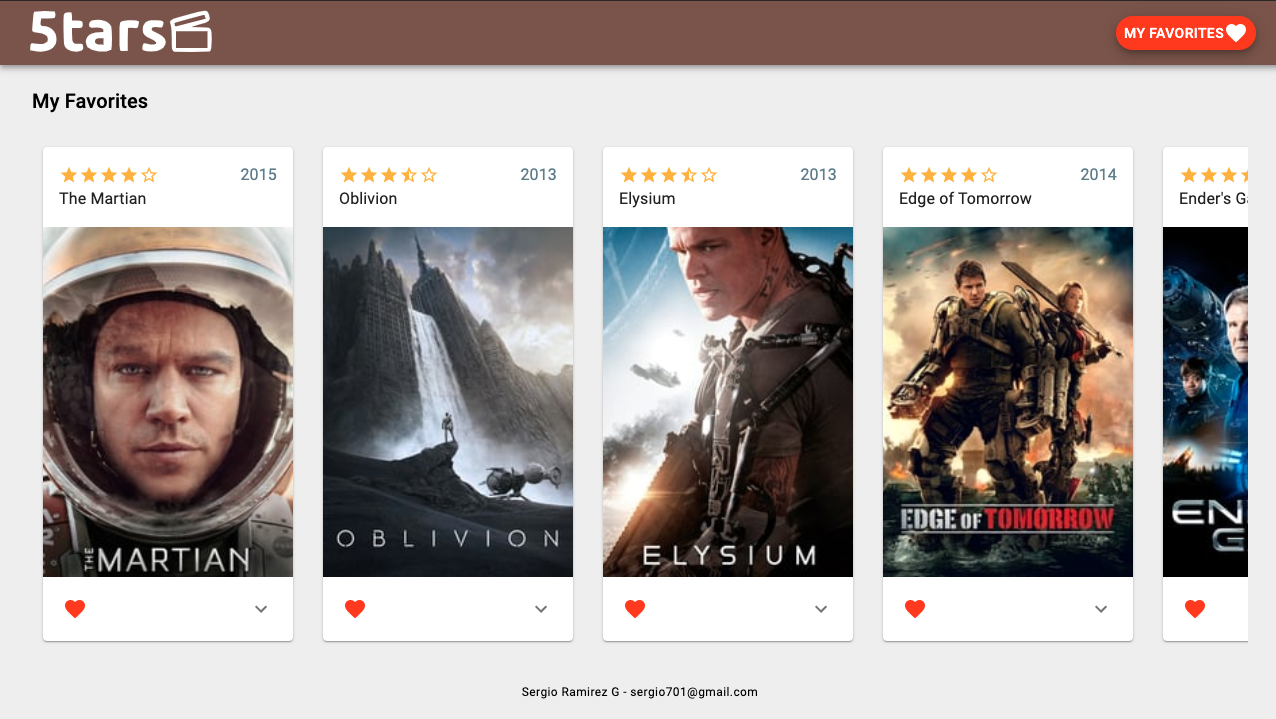
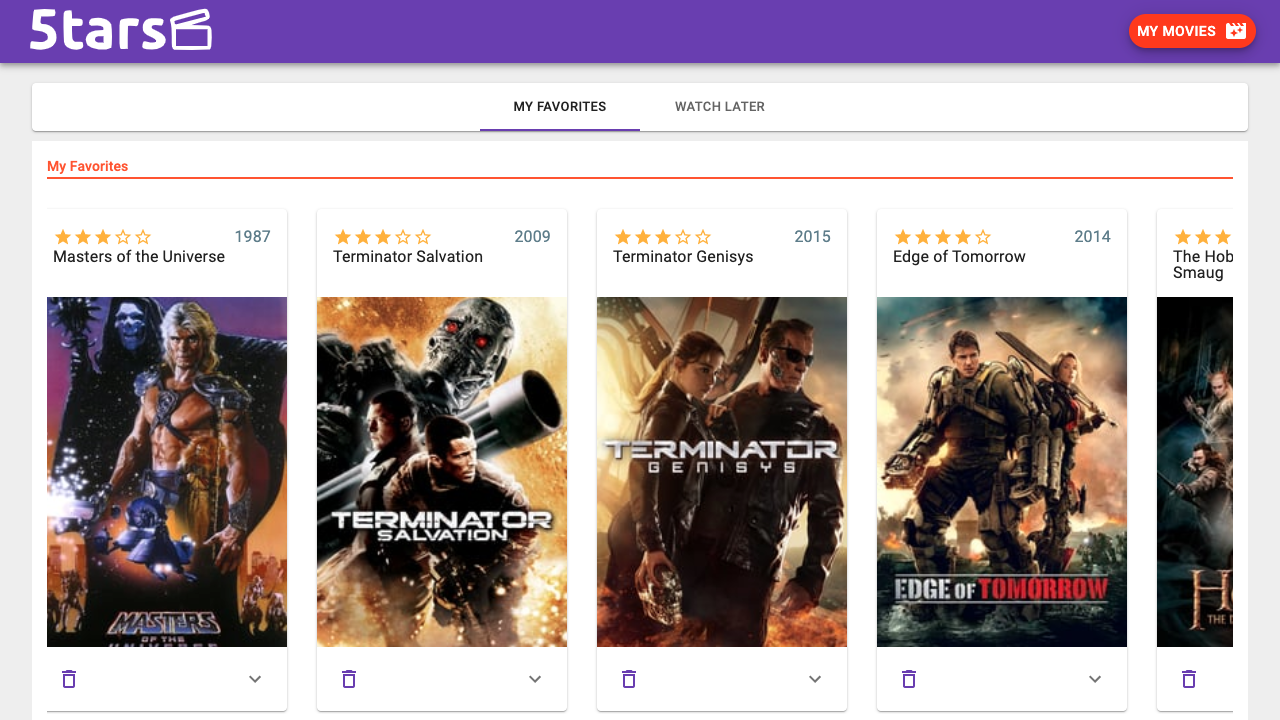
handle watchLater and favorites list, refactor movies card actions button

diff --git a/src/views/MyLists/MyLists.js b/src/views/MyLists/MyLists.js
@@ -4,6 +4,10 @@ import Container from '@material-ui/core/Container';
 import Header from "components/Header/Header";
 import Footer from "components/Footer/Footer";
 import MoviesList from "components/MoviesList/MoviesList";
+import Paper from '@material-ui/core/Paper';
+import Tabs from '@material-ui/core/Tabs';
+import Tab from '@material-ui/core/Tab';
+import Box from '@material-ui/core/Box';
 import {  
   getFavorites,
   removeFromFavorites,
@@ -20,6 +24,11 @@ const useStyles = makeStyles(styles);
 const MyLists = props => {
   const classes = useStyles();
   const [state, dispatch] = useReducer(reducer, initialState);
+  const [activeTab, setActiveTab] = useState(0);
+
+  const handleTabsChange = (event, newValue) => {
+    setActiveTab(newValue);
+  };
 
   const getFavoritesMovies= async () => {
     dispatch(actions.fetching());
@@ -67,19 +76,35 @@ const MyLists = props => {
     <div>
       <Header />
       <Container className={classes.mainContainer}>
-        <MoviesList
-          title="My Favorites"
-          movies={state.favorites}
-          removeFromList={removeFavorite}
-          color={deepOrange[500]}
-          deleteMode={true}
-        /> 
-        <MoviesList
-          title="Watch Later"
-          movies={state.watchLater}
-          removeFromList={removeWatchLater}
-          color={green[500]}
-        />
+        <Paper className={classes.root}>
+          <Tabs value={activeTab} onChange={handleTabsChange} indicatorColor='primary' centered>
+            <Tab label="My Favorites" />
+            <Tab label="Watch Later"/>
+          </Tabs>
+        </Paper>
+        <Box className={classes.tabsContent} color="primary.main">
+          {(() => {
+            switch(activeTab) {
+              case 0:
+                return <MoviesList
+                  title="My Favorites"
+                  movies={state.favorites}
+                  removeFromList={removeFavorite}
+                  color={deepOrange[500]}
+                  deleteMode={true}
+                />;
+              case 1:
+                return <MoviesList
+                  title="Watch Later"
+                  movies={state.watchLater}
+                  removeFromList={removeWatchLater}
+                  color={green[500]}
+                />
+              default:
+                return null;
+            }
+          })()}
+        </Box>
       </Container>
       <Footer />
     </div>

diff --git a/src/components/MovieCard/test/MovieCard.test.js b/src/components/MovieCard/test/MovieCard.test.js
@@ -5,7 +5,7 @@ import MovieCard from '../MovieCard';
 import FavoriteIcon from '@material-ui/icons/Favorite';
 
 describe('MovieCard Component', () => {
-  let mock, wrapper;
+  let mock
 
   beforeEach(() => {
     mock = {
@@ -24,42 +24,8 @@ describe('MovieCard Component', () => {
     }
   });
 
-  afterEach(() => {
-    wrapper = null;
-    sinon.restore();
-  });
-
   it('should render without crashing', () => {
     shallow(<MovieCard {...mock}/>);
   });
 
-  it('should call addFavorite when the movie is not favorite on fav button click', () => {
-    wrapper = mount(<MovieCard {...mock}/>);
-    wrapper.find('.MuiCardActions-root button').first().simulate('click');
-    sinon.assert.called(mock.addFavorite);
-    sinon.assert.notCalled(mock.removeFavorite);
-  });
-
-  it('should call removeFavorite when the movie isfavorite on fav button click', () => {
-    mock.isFavorite = true;
-    wrapper = mount(<MovieCard {...mock}/>);
-    wrapper.find('.MuiCardActions-root button').first().simulate('click');
-    sinon.assert.notCalled(mock.addFavorite);
-    sinon.assert.called(mock.removeFavorite);
-  });
-
-  it('should highlight icon if is favorite', () => {
-    let expected = 'secondary';
-    mock.isFavorite = true;
-    wrapper = mount(<MovieCard {...mock}/>);
-    let color = wrapper.find(FavoriteIcon).props().color;
-    expect(color).toBe(expected);
-  });
-
-  it('should not highlight icon if is not favorite', () => {
-    let expected = 'inherit';
-    wrapper = mount(<MovieCard {...mock}/>);
-    let color = wrapper.find(FavoriteIcon).props().color;
-    expect(color).toBe(expected);
-  });
 });

diff --git a/src/views/MyLists/test/actions.test.js b/src/views/MyLists/test/actions.test.js
@@ -1,6 +1,6 @@
 import { actions, types } from '../actions';
 
-describe('MyLists actions', () => {
+describe.only('MyLists actions', () => {
   it('should returns fetching action', () => {
     const expected = {
       type: types.FETCHING
@@ -15,12 +15,39 @@ describe('MyLists actions', () => {
     expect(actions.error()).toEqual(expected);
   });
   
-  it('should returns success action', () => {
-    const movies = "movies";
+  it('should returns favorites action', () => {
+    const favorites = "movies";
     const expected = {
-      type: types.SUCCESS,
-      movies
+      type: types.FAVORITES,
+      favorites
     };
-    expect(actions.success(movies)).toEqual(expected);
+    expect(actions.favorites(favorites)).toEqual(expected);
+  });
+  
+  it('should returns watchLater action', () => {
+    const watchLater = "movies";
+    const expected = {
+      type: types.WATCH_LATER,
+      watchLater
+    };
+    expect(actions.watchLater(watchLater)).toEqual(expected);
+  });
+
+  it('should returns removeFavorite action', () => {
+    const id = "1234";
+    const expected = {
+      type: types.REMOVE_FAVORITE,
+      id
+    };
+    expect(actions.removeFavorite(id)).toEqual(expected);
+  });
+  
+  it('should returns removeWatchLater action', () => {
+    const id = "1234";
+    const expected = {
+      type: types.REMOVE_WATCH_LATER,
+      id
+    };
+    expect(actions.removeWatchLater(id)).toEqual(expected);
   }); 
 });

diff --git a/src/views/MyLists/test/reducer.test.js b/src/views/MyLists/test/reducer.test.js
@@ -18,16 +18,20 @@ describe('MyLists reducer', () => {
     expect(state).toEqual({ ...initialState, status: types.FETCHING });
   });
 
-  it('should update movies on SUCCES action', () => {
-    const movies = [1,2,3];
-    state = reducer(null, actions.success(movies));
-    expect(state).toEqual({ ...initialState, movies, status: types.SUCCESS });
+  it('should update favorites on FAVORITES action', () => {
+    const favorites = [1,2,3];
+    state = reducer(undefined, actions.favorites(favorites));
+    expect(state).toEqual({ ...initialState, favorites });
   });
 
-  it('should empty movies on ERROR action', () => {
-    const movies = [1,2,3];
-    state = reducer(null, actions.success(movies));
-    state = reducer(state, actions.error());
-    expect(state).toEqual({ ...initialState, movies: [], status: types.ERROR });
+  it('should update watchLater on WATCH_LATER action', () => {
+    const watchLater = [1,2,3];
+    state = reducer(undefined, actions.watchLater(watchLater));
+    expect(state).toEqual({ ...initialState, watchLater,});
+  });
+
+  it('should update status on ERROR action', () => {
+    state = reducer(undefined, actions.error());
+    expect(state).toEqual({ ...initialState, status: types.ERROR });
   });
 });

diff --git a/src/views/MyLists/reducer.js b/src/views/MyLists/reducer.js
@@ -13,14 +13,14 @@ export const reducer = (state = initialState, { type, favorites, watchLater, id 
     case types.FETCHING:
       return { ...initialState, status: types.FETCHING };
     case types.FAVORITES:
-      return { ...state, status: types.SUCCESS, favorites };
+      return { ...state, favorites };
     case types.REMOVE_FAVORITE:
-        change = state.favorites.filter(movie => movie.id != id);
+        change = state.favorites.filter(movie => movie.id !== id);
       return { ...state, favorites: change };
     case types.WATCH_LATER:
-      return { ...state, status: types.SUCCESS, watchLater };
+      return { ...state, watchLater };
     case types.REMOVE_WATCH_LATER:
-      change = state.watchLater.filter(movie => movie.id != id);
+      change = state.watchLater.filter(movie => movie.id !== id);
       return { ...state, watchLater: change };  
     case types.ERROR:
       return { ...state, status: types.ERROR };

diff --git a/src/components/MovieCard/MovieCard.js b/src/components/MovieCard/MovieCard.js
@@ -1,5 +1,5 @@
 import React from 'react';
-import { string, number, bool, func, shape, node } from 'prop-types';
+import { string, number, shape, node } from 'prop-types';
 import { makeStyles } from '@material-ui/core/styles';
 import clsx from 'clsx';
 import Score from "components/Score/Score";
@@ -12,9 +12,7 @@ import Collapse from '@material-ui/core/Collapse';
 import IconButton from '@material-ui/core/IconButton';
 import Typography from '@material-ui/core/Typography';
 import ExpandMoreIcon from '@material-ui/icons/ExpandMore';
-import Tooltip from '@material-ui/core/Tooltip';
 import { getMovieImagesUrls } from  "modules/movie-utils";
-import DeleteOutlineIcon from '@material-ui/icons/DeleteOutline';
 
 import styles from "./MovieCardStyle.js";
 

diff --git a/src/components/CardButton/CardButton.js b/src/components/CardButton/CardButton.js
@@ -1,10 +1,6 @@
 import React from 'react';
 import Tooltip from '@material-ui/core/Tooltip';
 import IconButton from '@material-ui/core/IconButton';
-import styles from "./CardButtonStyle.js";
-import { makeStyles } from '@material-ui/core/styles';
-
-const useStyles = makeStyles(styles);
 
 const CardButton = ({
   help,
@@ -14,11 +10,9 @@ const CardButton = ({
   onTurnOn,
   onTurnOff
 }) => {
-  const classes = useStyles();
-
-  const colorIcon = React.cloneElement(icon, {
+  const colorIcon = icon ? React.cloneElement(icon, {
     htmlColor: active ? color : null
-  });
+  }) : null;
   
   return (
     <Tooltip title={help}>

diff --git a/src/components/Header/HeaderStyle.js b/src/components/Header/HeaderStyle.js
@@ -6,21 +6,21 @@ const HeaderStyle = theme => ({
         width: '100%',
         zIndex: 100
       },
-      menuButton: {
-        marginRight: theme.spacing(2),
+      moviesIcon: {
+        marginLeft: theme.spacing(1),
       },
       title: {
         flexGrow: 1,
       },
       logo: {
         width: 'auto',
-        height: '55px'
+        height: '35px',
+        [theme.breakpoints.up('sm')]: {
+          height: '55px',
+        },
       },
       link: {
         textDecoration: 'none'
-      },
-      listButton: {
-        //background: 'linear-gradient(90deg, #4caf50, #ff5722)',
       }
   });
   

diff --git a/src/components/MoviesList/MoviesListStyle.js b/src/components/MoviesList/MoviesListStyle.js
@@ -4,14 +4,15 @@ const MoviesListStyle = theme => ({
       padding: '0',
       paddingBottom: 10,
       borderStyle: 'solid',
-      borderWidth: '3px 0',
-      marginBottom: '50px'
+      borderWidth: '2px 0',
+      marginBottom: '15px'
     },
     gridList: {
       flexWrap: 'nowrap'
     },
     movieCard: {
-      margin: '0 15px'
+      margin: '0 15px',
+      minWidth: '250px'
     },
     title: {
       marginBottom: 0,

diff --git a/src/components/Header/Header.js b/src/components/Header/Header.js
@@ -23,8 +23,8 @@ const Header = () => {
           </div>
           <a href="/MyLists" className={classes.link}>
             <Fab  className={classes.listButton} variant="extended" size="small" color="secondary">              
-              My Movies{''}
-              <MovieFilterIcon />
+              My Movies
+              <MovieFilterIcon className={classes.moviesIcon}/>
             </Fab>
           </a>
         </Toolbar>

diff --git a/src/components/MoviesList/MoviesList.js b/src/components/MoviesList/MoviesList.js
@@ -20,7 +20,7 @@ const MoviesList = ({
   const classes = useStyles();  
   return (
     <>
-    <Typography className={classes.title} variant='h6' style={{color}}>
+    <Typography className={classes.title} variant='subtitle2' style={{color}}>
       {title}
     </Typography>
     <div className={classes.root} style={{borderColor: color}}>

diff --git a/src/components/MoviesList/test/MoviesList.test.js b/src/components/MoviesList/test/MoviesList.test.js
@@ -1,0 +1,9 @@
+import React from 'react';
+import MoviesList from '../MoviesList';
+import { shallow } from 'enzyme'
+
+describe('CardButton Component', () => {
+  it('should render without crashing', () => {
+    shallow(<MoviesList movies={[]} />);
+  });
+});
